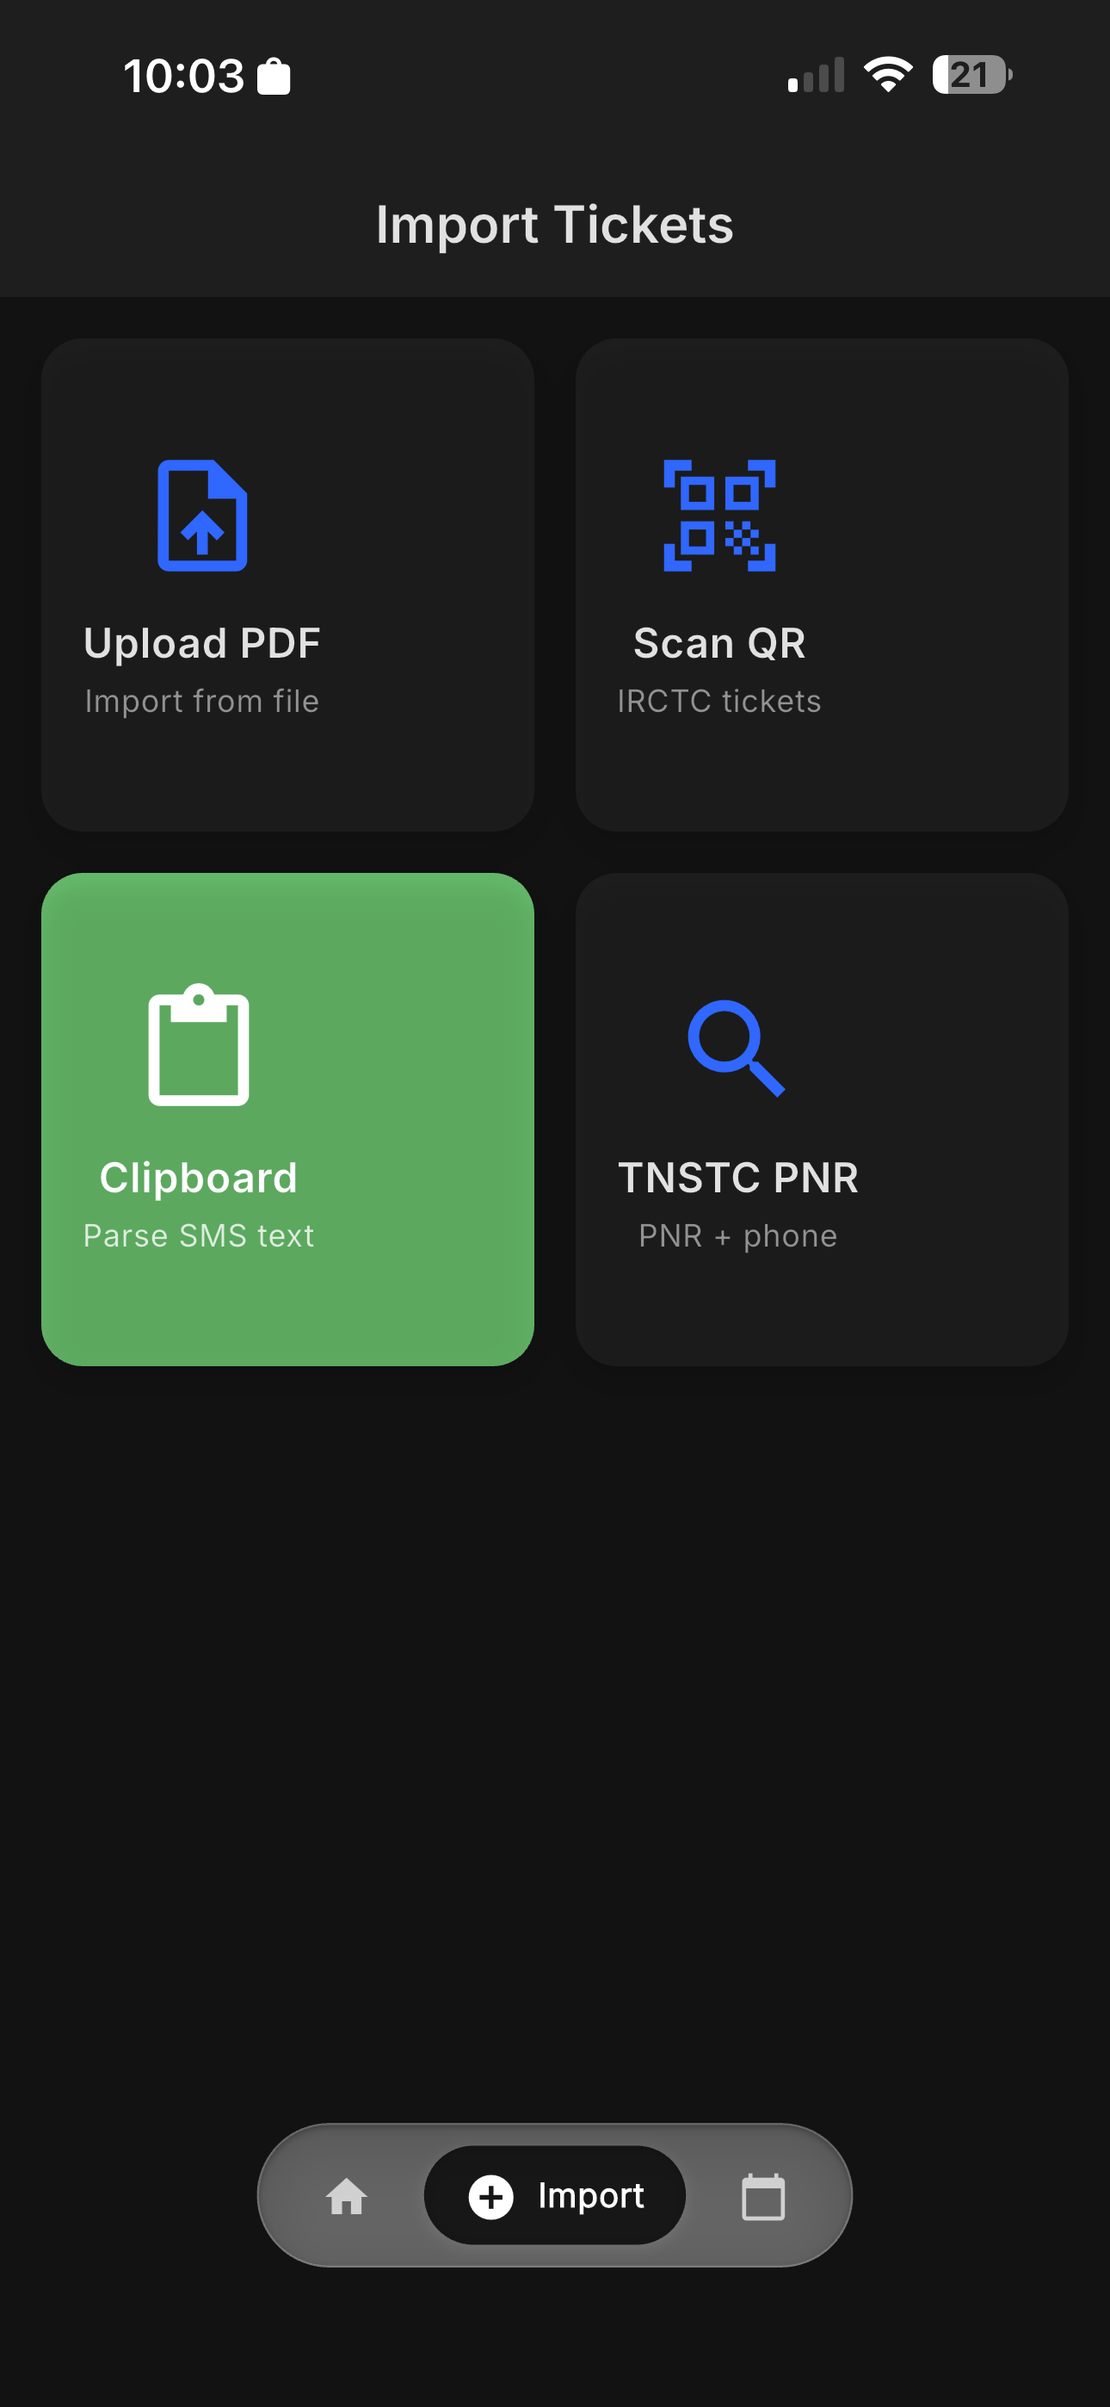
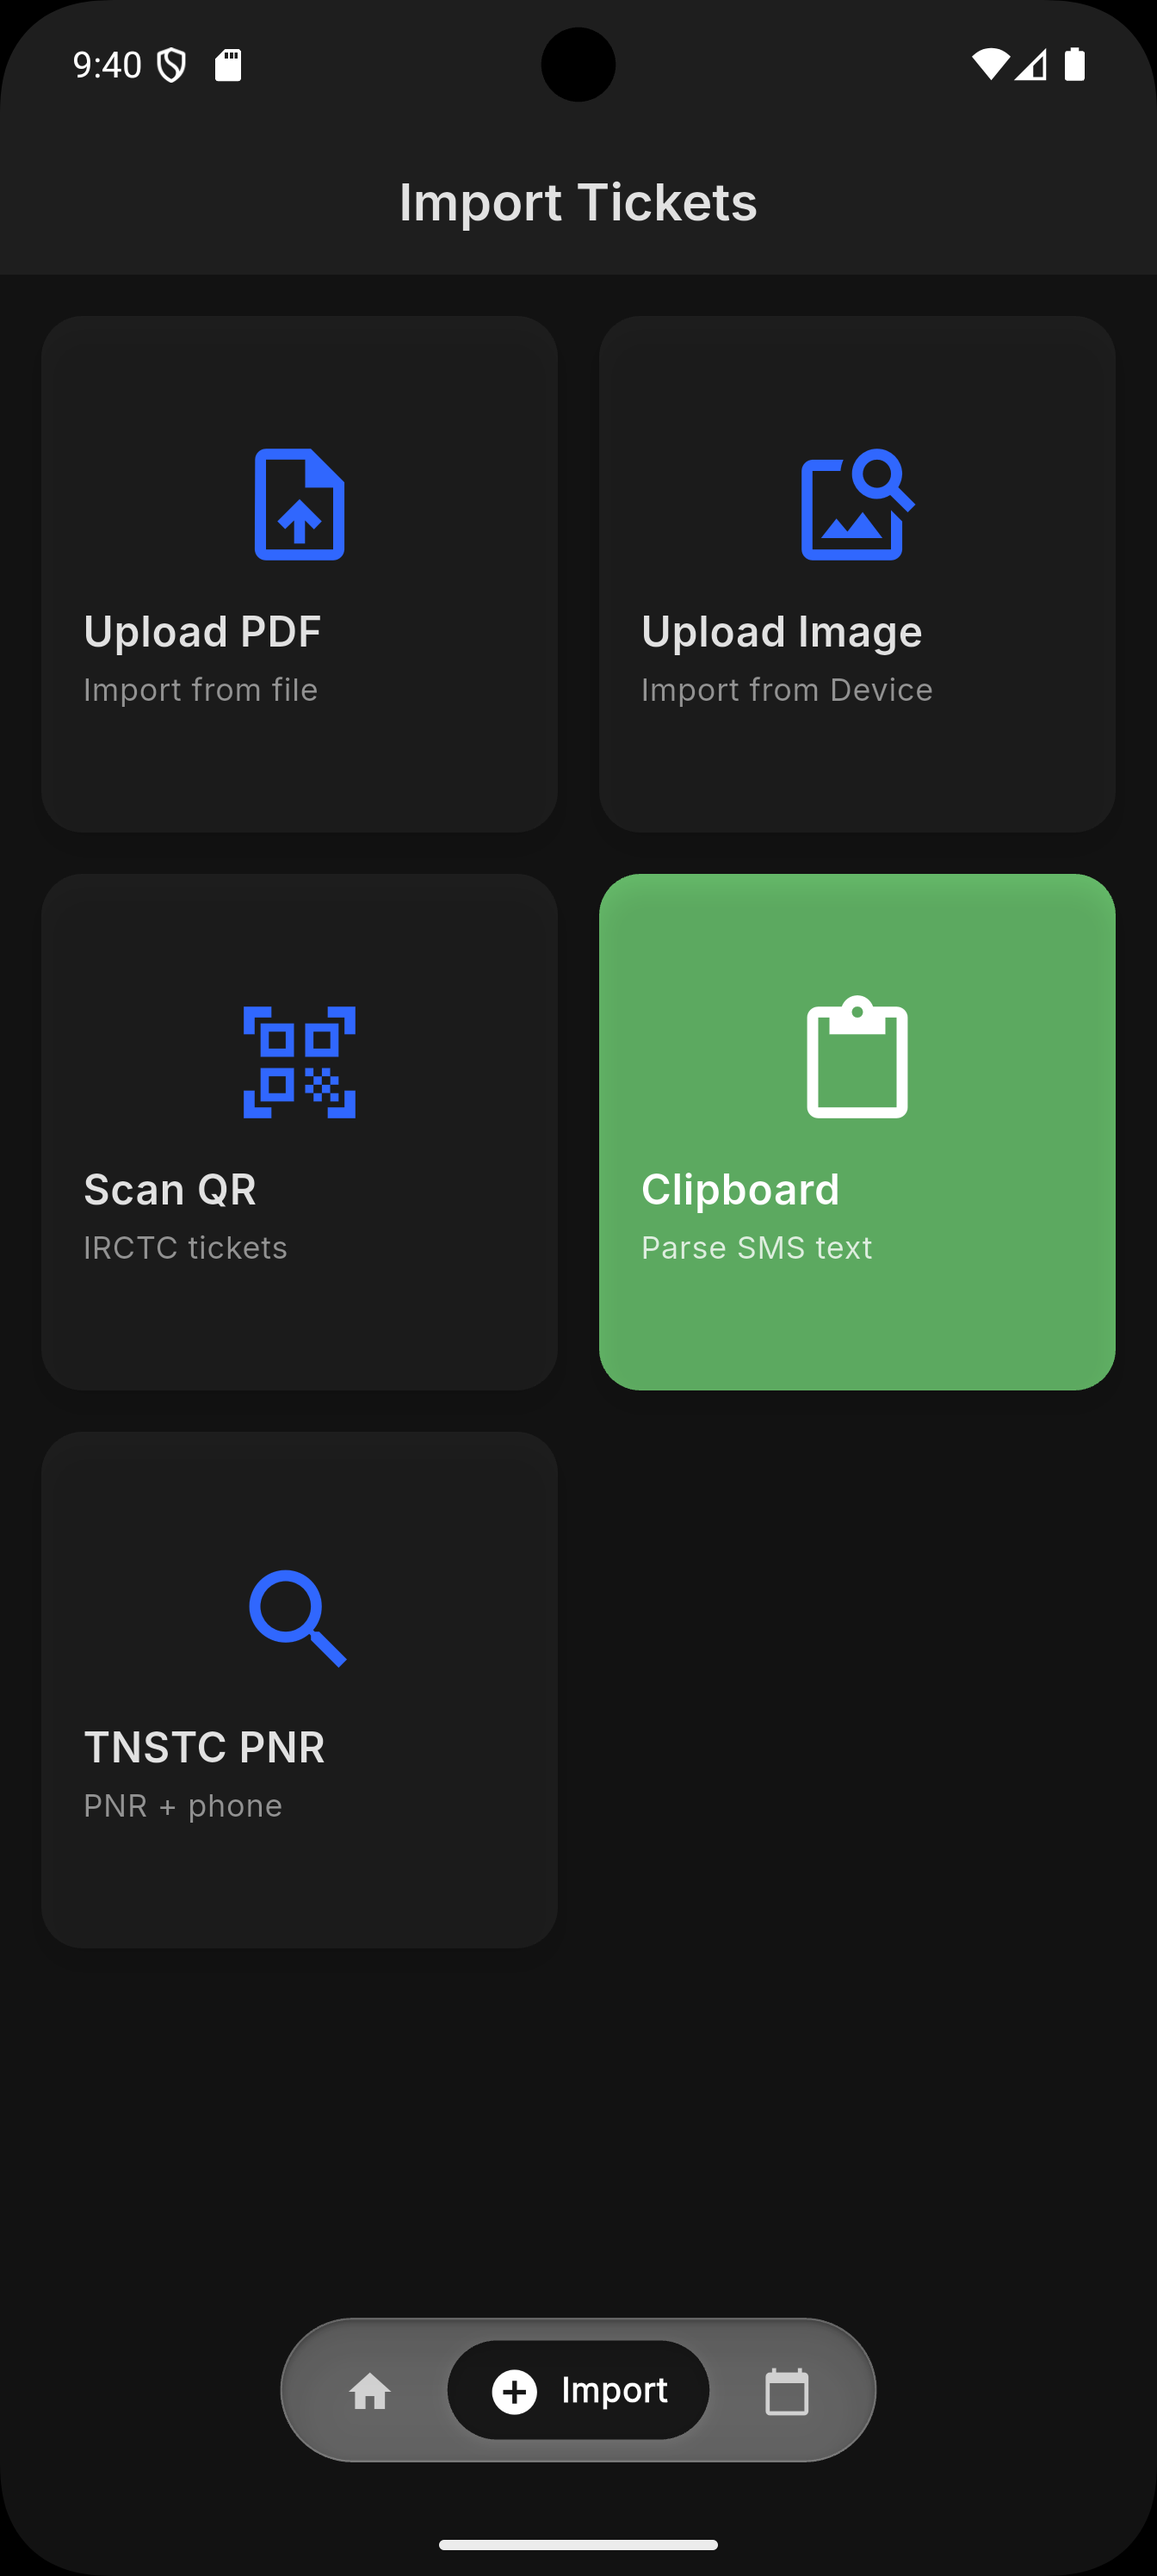
docs: update docs

diff --git a/README.md b/README.md
@@ -18,6 +18,7 @@ Unlike Apple Wallet or Google Wallet, which support only specific formats, **Nam
 
 * **SMS Parsing** – Automatically extract tickets from TNSTC, IRCTC, and SETC SMS messages
 * **PDF Processing** – Parse TNSTC bus tickets from PDF files using Syncfusion PDF library
+* **Image Processing** - Parse District movie tickets from Images
 * **QR Code Scanning** – Scan IRCTC train ticket QR codes with full metadata extraction
 * **Clipboard Processing** – Read and parse travel ticket text from the clipboard
 
@@ -79,7 +80,7 @@ Passes that include a `webServiceURL` (e.g. Luma event passes) are automatically
 
 ### Prerequisites
 
-* **Flutter SDK** - 3.38.6 (managed via FVM)
+* **Flutter SDK** - 3.44.2 (managed via FVM)
 * **Android Studio** / **Xcode** - For mobile app development
 * **Xcode** - 16.4.0 (for iOS development)
 * **FVM** - Flutter Version Management (recommended)
@@ -123,8 +124,8 @@ cd namma_wallet
 # Install FVM (if not already installed)
 dart pub global activate fvm
 
-# Use Flutter 3.38.6 via FVM
-fvm use 3.38.6
+# Use Flutter 3.44.2 via FVM
+fvm use 3.44.2
 
 # Get dependencies
 fvm flutter pub get
